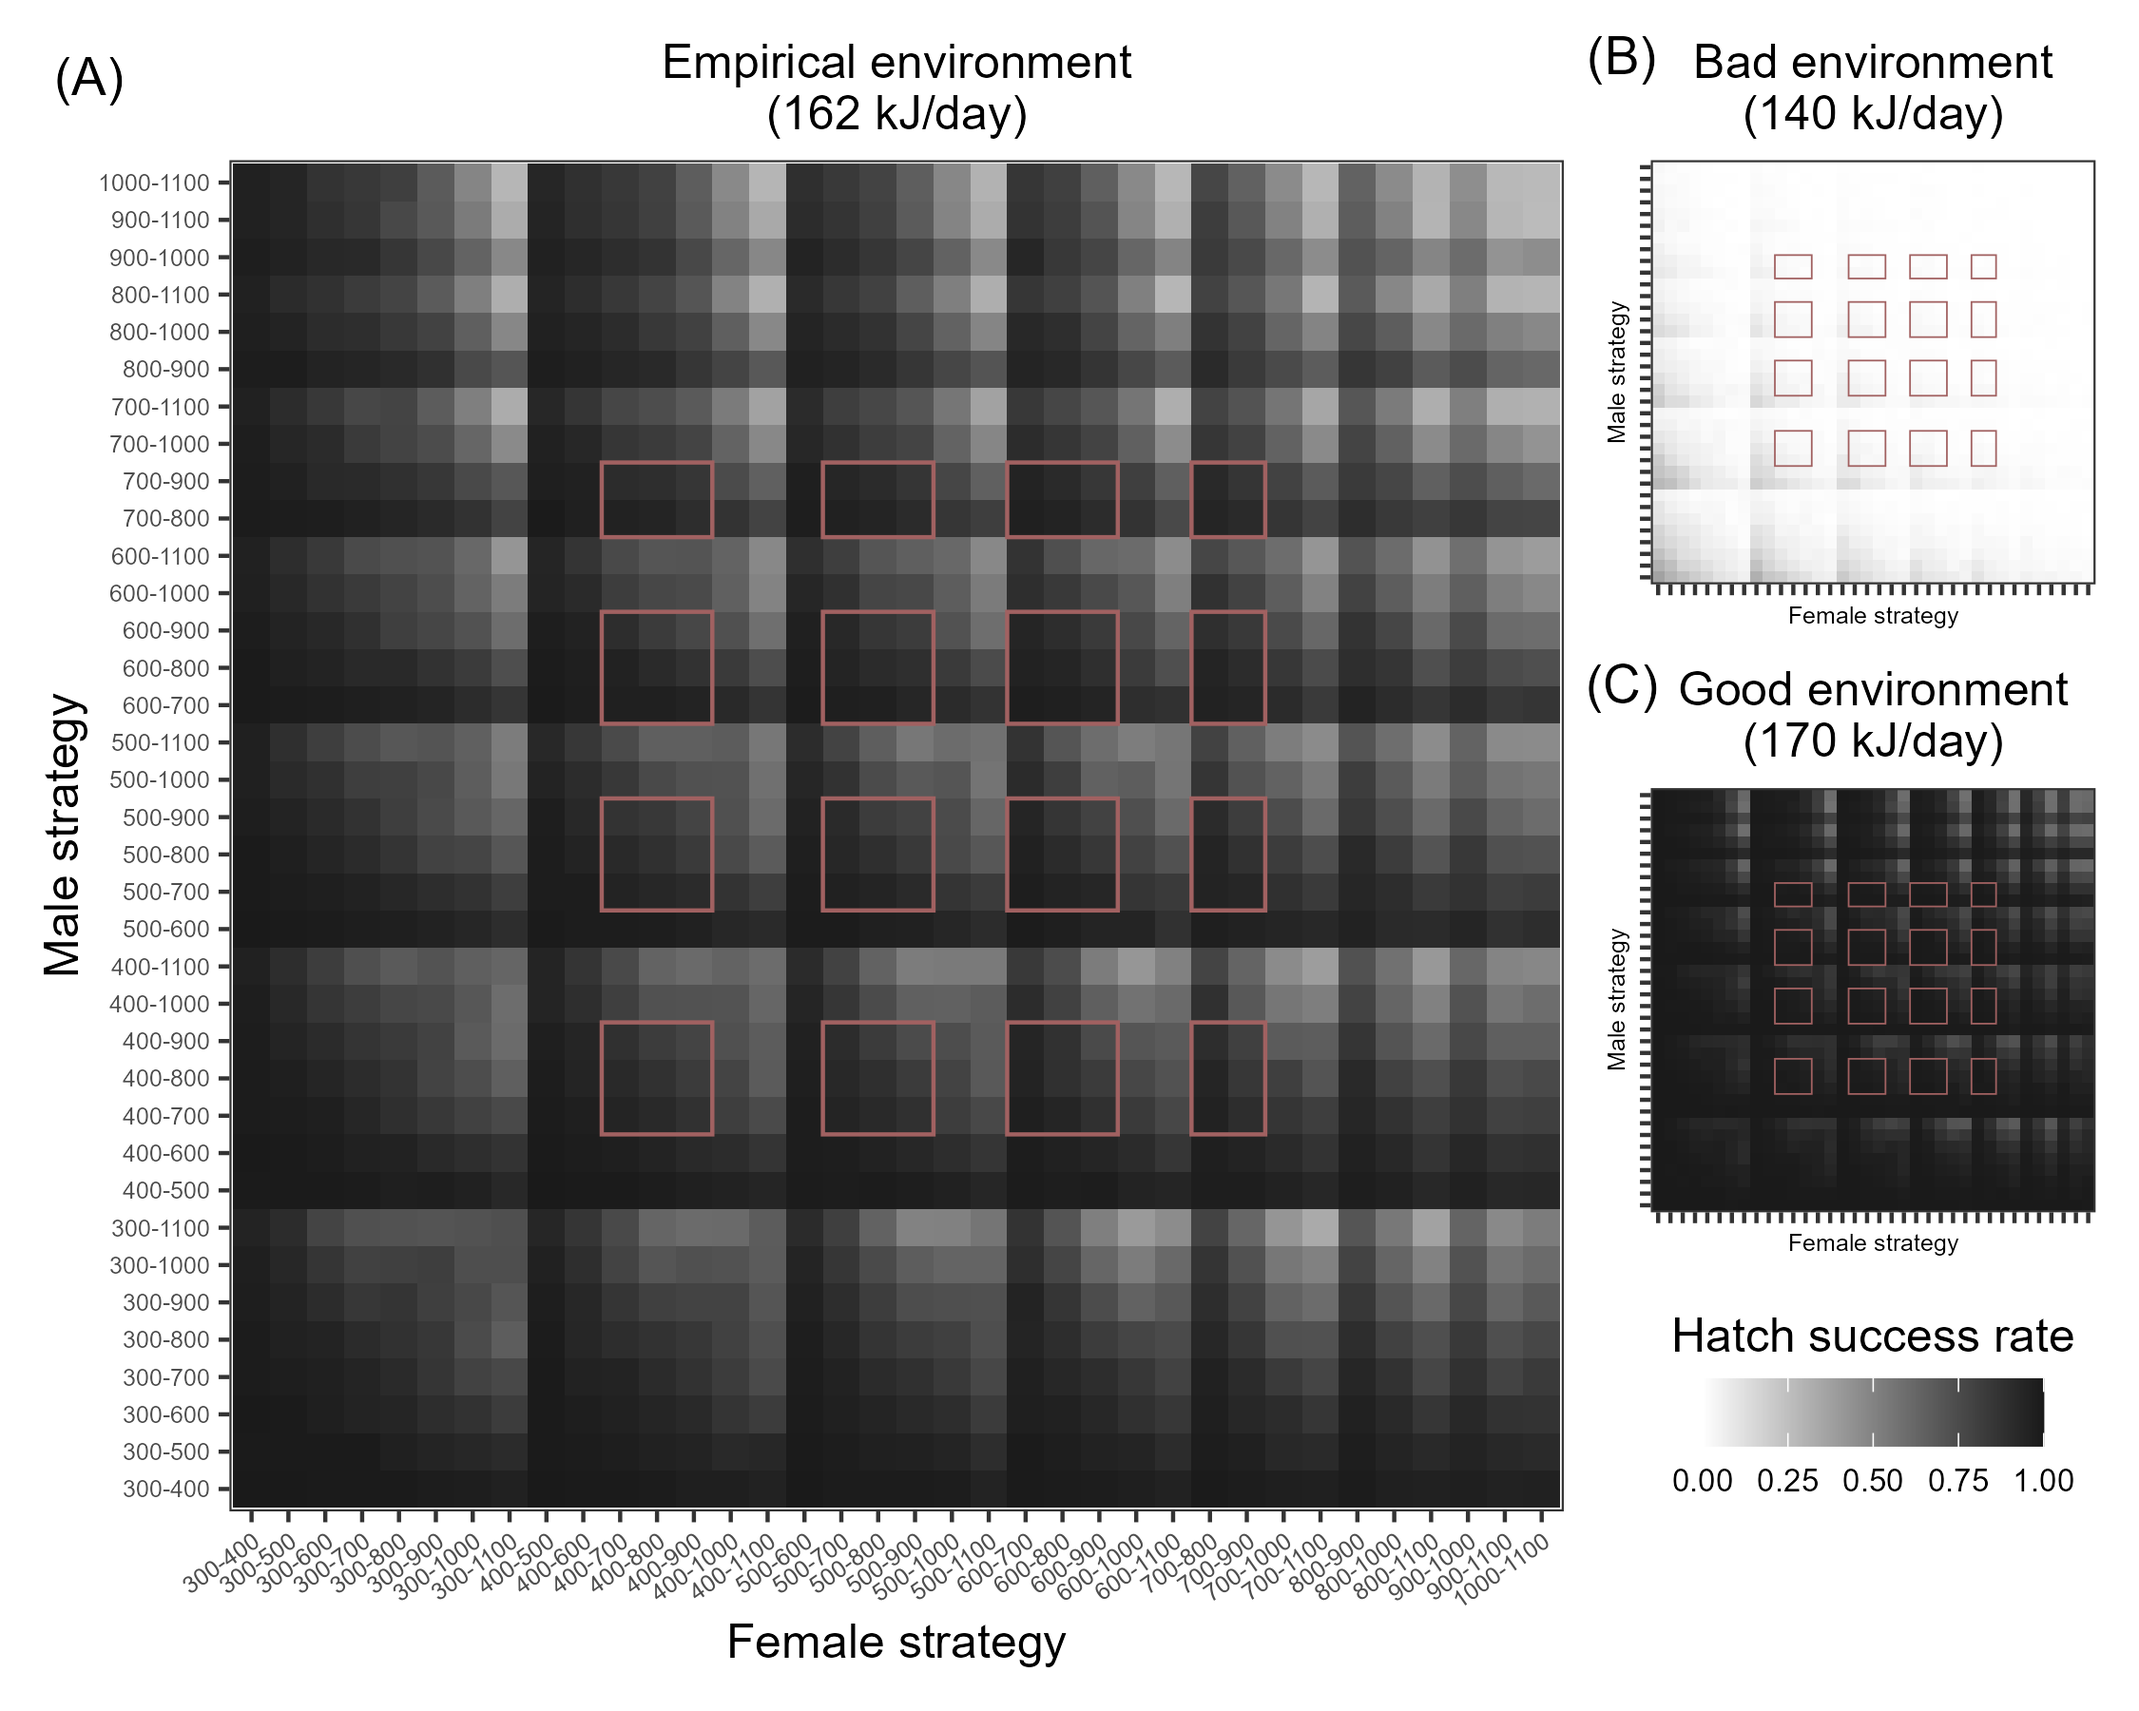
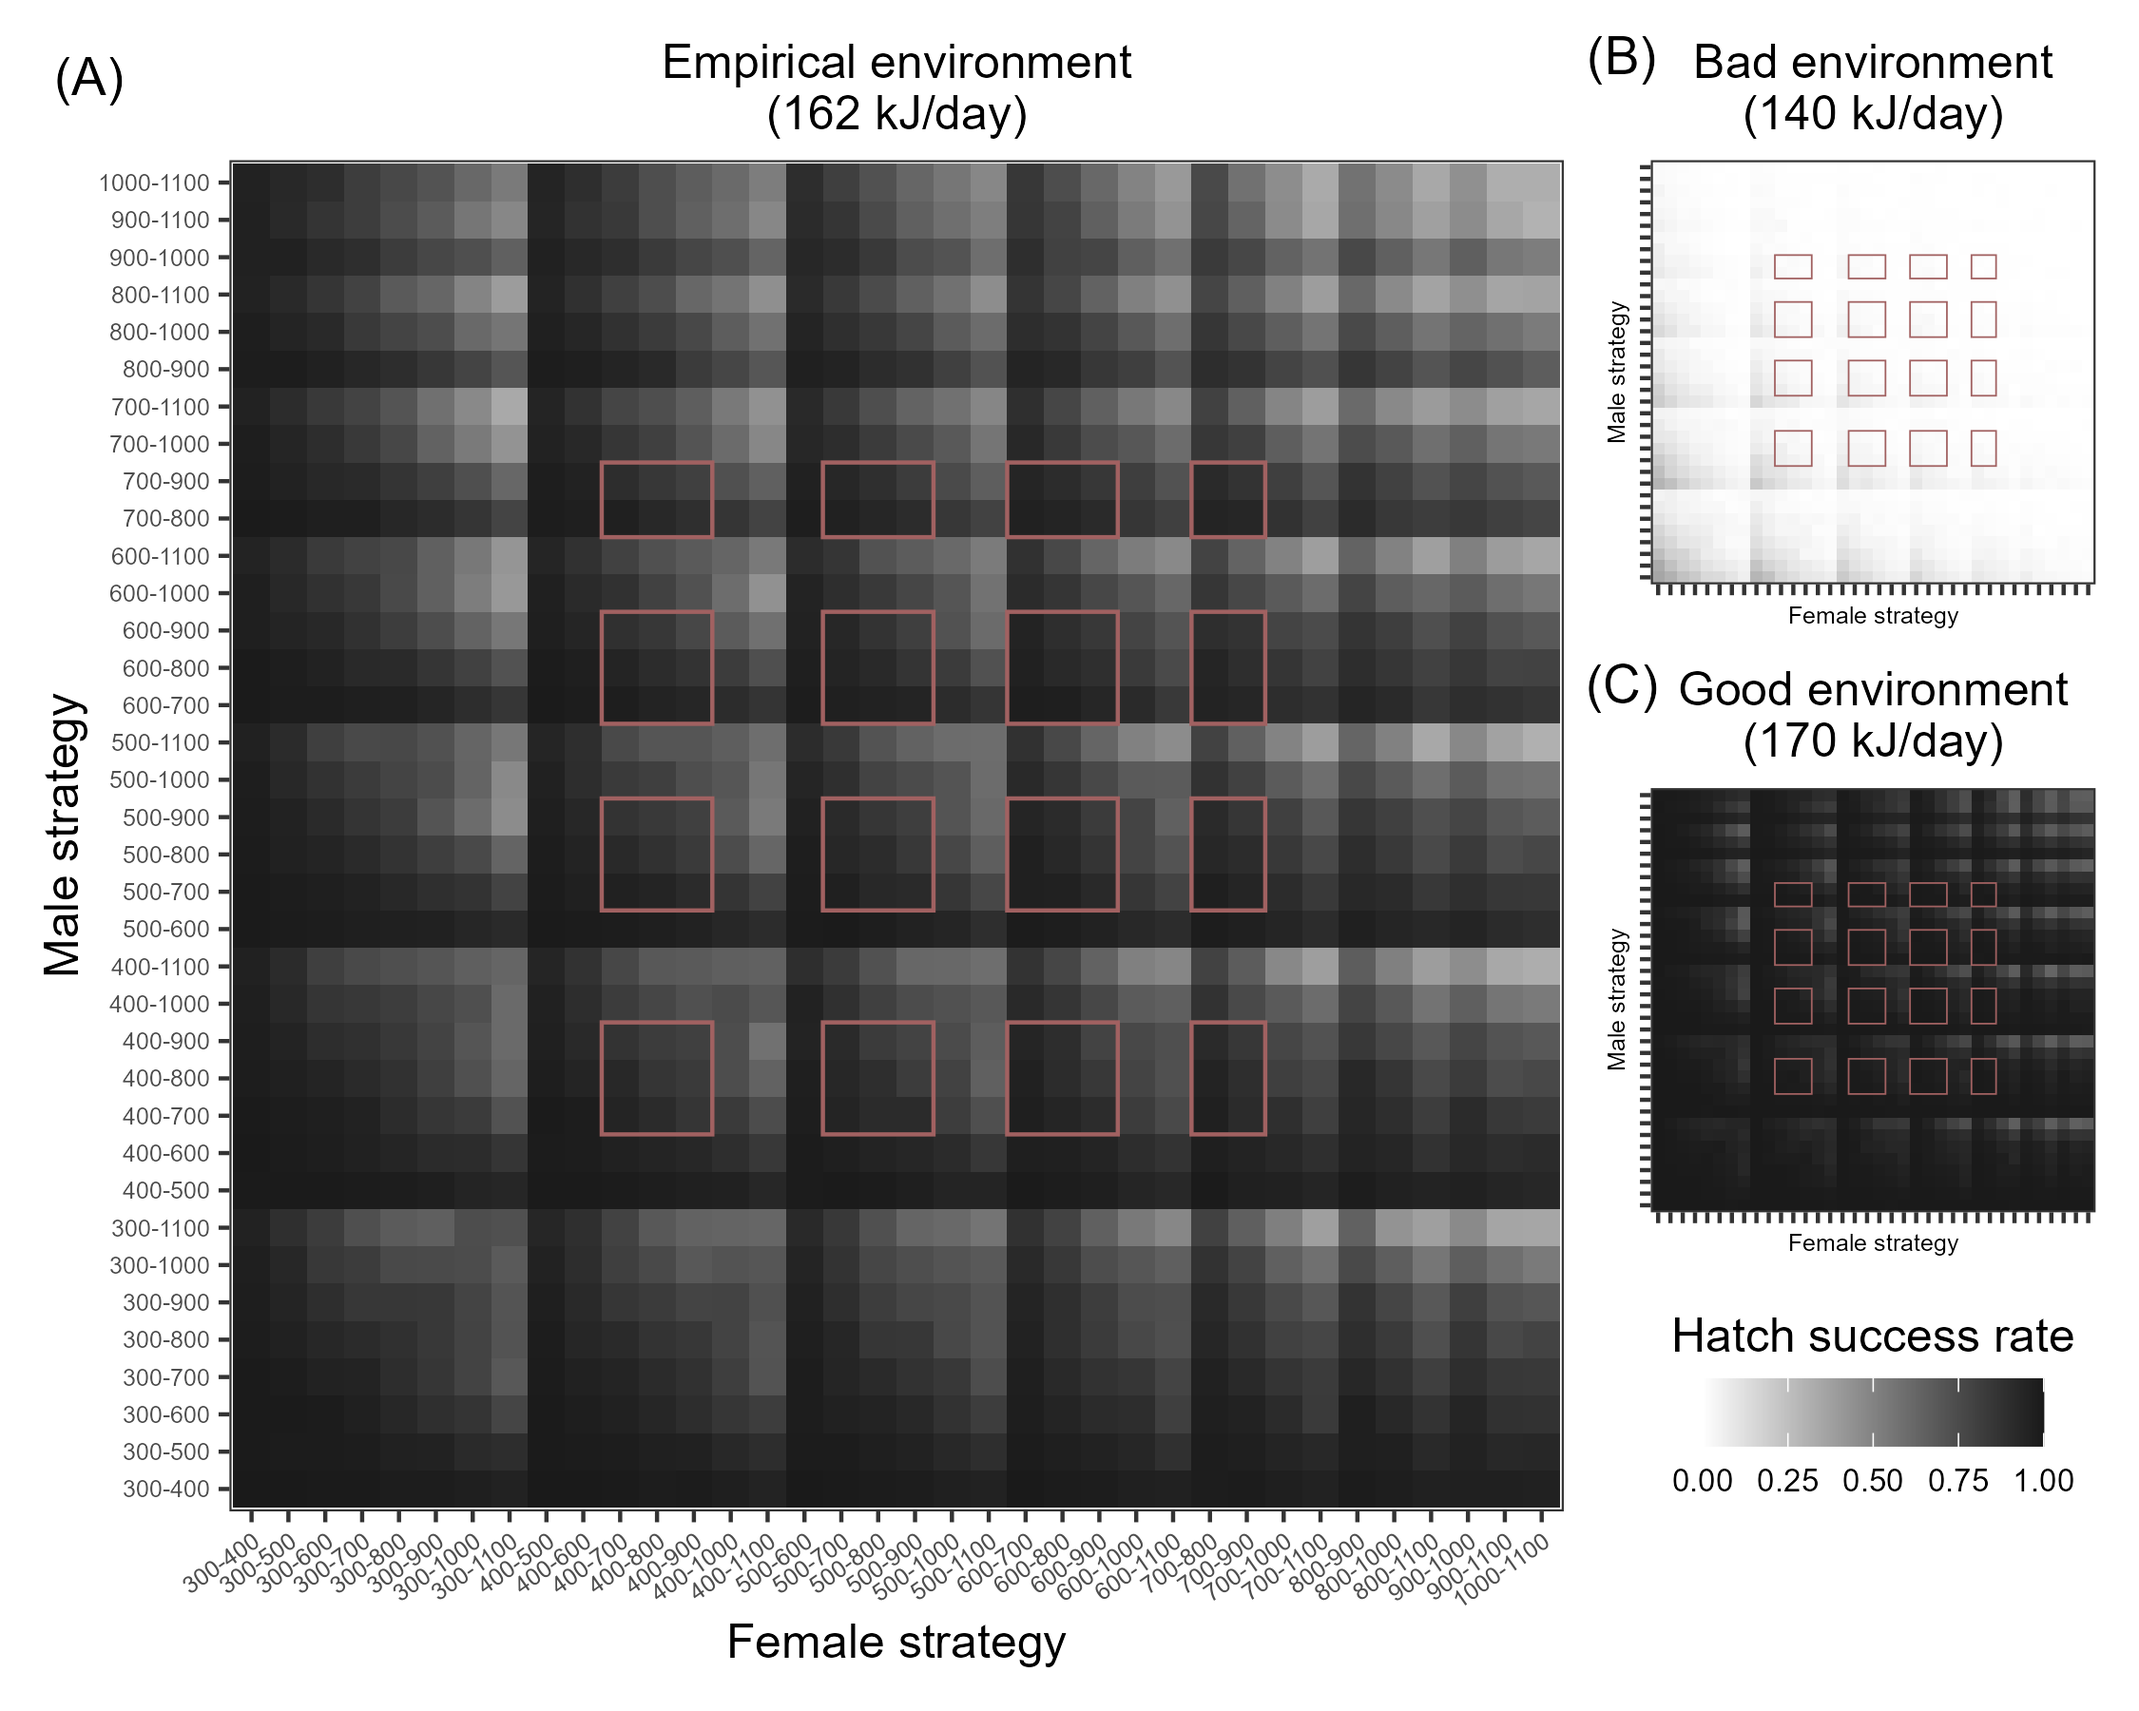
working figures

diff --git a/src/Parent.cpp b/src/Parent.cpp
@@ -16,12 +16,12 @@ Parent::Parent(Sex sex_, std::mt19937* randGen_):
 	energyRecord(std::vector<double>())
 {
 	/*
-	Male begin the incubation period incubating, females begin foraging
+	Females begin the season incubating, males begin foraging
 	*/
 	this->state = State::incubating;
 	this->previousDayState = State::incubating;
 
-	if (this->sex == Sex::female) {
+	if (this->sex == Sex::male) {
 		this->state = State::foraging;
 		this->previousDayState = State::foraging;
 	}
